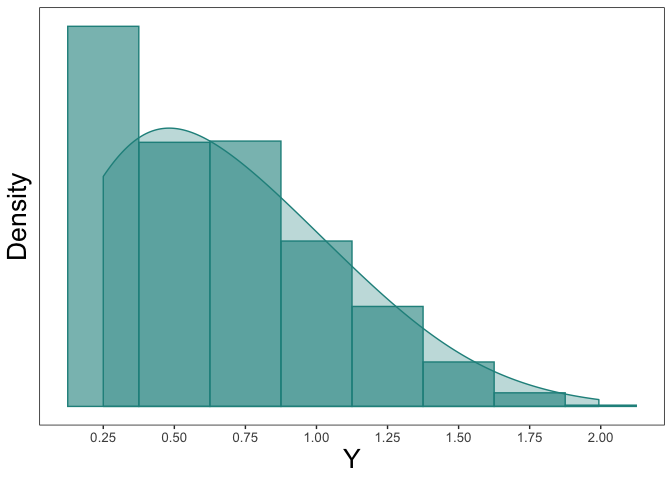
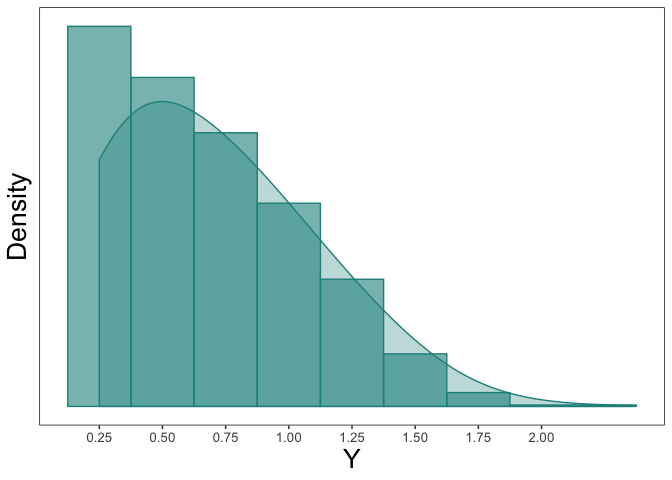
adding CRAN badges and re-adding instructions for installing the GitHub version as a development option

diff --git a/README.md b/README.md
@@ -2,6 +2,16 @@ Maximum Likelihood Estimation of a Truncated Normal Distribution with
 Censored Data
 ================
 
+<!-- badges: start -->
+
+[![CRAN
+version](http://www.r-pkg.org/badges/version/tcensReg)](http://www.r-pkg.org/pkg/tcensReg)
+[![CRAN RStudio mirror
+downloads](http://cranlogs.r-pkg.org/badges/grand-total/tcensReg)](http://www.r-pkg.org/pkg/tcensReg)
+[![cran
+checks](https://cranchecks.info/badges/worst/tcensReg)](https://cranchecks.info/pkgs/tcensReg)
+<!-- badges: end -->
+
 The goal of this package is to estimate parameters from a linear model
 when the data comes from a truncated normal distribution with censoring.
 Maximum likelihood values are returned. There are multiple method
@@ -17,10 +27,15 @@ arXiv:[1911.11221](https://arxiv.org/abs/1911.11221).
 
 # Installation
 
-You can install `tcensReg` from CRAN:
+You can install `tcensReg` from CRAN for the stable release or install
+the GitHub verion for the active development version:
 
 ``` r
+#stable CRAN version
 install.packages("tcensReg")
+#active devel. GitHub version
+install.packages("devtools")
+devtools::install_github("williazo/tcensReg")
 ```
 
 # Example 1: Single Population
@@ -47,7 +62,7 @@ y_star <- rtnorm(n=1000, mu=mu, sd=sigma, a=a)
 round(range(y_star), 3)
 ```
 
-    ## [1] 0.004 1.993
+    ## [1] 0.004 2.355
 
 Next, we can imagine a scenario where we have an imprecise measurement
 of `y_star` leading to censoring. In our case we assume that values
@@ -63,7 +78,7 @@ y <- ifelse(y_star <= nu, nu, y_star)
 sum(y == nu)/length(y) 
 ```
 
-    ## [1] 0.194
+    ## [1] 0.191
 
 ``` r
 #collecting the uncensored and censored data together
@@ -88,22 +103,22 @@ tcensReg(y ~ 1, data=dt, a=0, v=0.25)
 
     ## $theta
     ##               Estimate
-    ## (Intercept)  0.4778344
-    ## log_sigma   -0.6738206
+    ## (Intercept)  0.5135531
+    ## log_sigma   -0.6827764
     ## 
     ## $convergence
     ## [1] 0
     ## 
     ## $initial_ll
-    ## [1] -692.9344
+    ## [1] -703.9048
     ## 
     ## $final_ll
-    ## [1] -677.5428
+    ## [1] -690.939
     ## 
     ## $var_cov
     ##               (Intercept)     log_sigma
-    ## (Intercept)  0.0009767877 -0.0009602282
-    ## log_sigma   -0.0009602282  0.0016796832
+    ## (Intercept)  0.0008405050 -0.0008258552
+    ## log_sigma   -0.0008258552  0.0015649081
     ## 
     ## $method
     ## [1] "CG"
@@ -152,9 +167,9 @@ knitr::kable(results_df, format="markdown", digits=4)
 |            |     mu |  sigma | mu\_bias | sigma\_bias |
 | :--------- | -----: | -----: | -------: | ----------: |
 | Truth      | 0.5000 | 0.5000 |   0.0000 |      0.0000 |
-| tcensReg   | 0.4778 | 0.5098 |   0.0222 |      0.0098 |
-| Normal MLE | 0.6594 | 0.3702 |   0.1594 |      0.1298 |
-| Tobit      | 0.6113 | 0.4408 |   0.1113 |      0.0592 |
+| tcensReg   | 0.5136 | 0.5052 |   0.0136 |      0.0052 |
+| Normal MLE | 0.6782 | 0.3740 |   0.1782 |      0.1260 |
+| Tobit      | 0.6311 | 0.4445 |   0.1311 |      0.0555 |
 
 Other methods result in significant bias for both `mu` and `sigma`.
 
@@ -208,28 +223,28 @@ mod_result
 
     ## $theta
     ##       (Intercept) groupPopulation 2        log_sigma1        log_sigma2 
-    ##         0.4875891         0.6475935        -1.4094346         0.6907025 
+    ##        0.50256296       -0.03487324       -1.39156717        0.81610577 
     ## 
     ## $convergence
     ## [1] 2
     ## 
     ## $initial_ll
-    ## [1] -1941.744
+    ## [1] -2000.264
     ## 
     ## $final_ll
-    ## [1] -1864.28
+    ## [1] -1900.638
     ## 
     ## $var_cov
     ##                     (Intercept) groupPopulation 2    log_sigma1
-    ## (Intercept)        7.455164e-05     -7.455164e-05 -7.176795e-05
-    ## groupPopulation 2 -7.455164e-05      2.833121e-02  7.176795e-05
-    ## log_sigma1        -7.176795e-05      7.176795e-05  8.143326e-04
-    ## log_sigma2        -4.901979e-15     -6.821170e-03  4.718944e-15
+    ## (Intercept)        7.628463e-05     -7.628463e-05 -6.926603e-05
+    ## groupPopulation 2 -7.628463e-05      7.487459e-02  6.926603e-05
+    ## log_sigma1        -6.926603e-05      6.926603e-05  8.017440e-04
+    ## log_sigma2        -1.677884e-14     -1.428259e-02  1.523510e-14
     ##                      log_sigma2
-    ## (Intercept)       -4.901979e-15
-    ## groupPopulation 2 -6.821170e-03
-    ## log_sigma1         4.718944e-15
-    ## log_sigma2         2.283660e-03
+    ## (Intercept)       -1.677884e-14
+    ## groupPopulation 2 -1.428259e-02
+    ## log_sigma1         1.523510e-14
+    ## log_sigma2         3.271884e-03
     ## 
     ## $method
     ## [1] "maxLik"
@@ -250,10 +265,10 @@ results_df$sigma2_bias <- abs(results_df$sigma_2 - sigma_2)
 knitr::kable(results_df, format="markdown", digits=4)
 ```
 
-|          |  mu\_1 |  mu\_2 | sigma\_1 | sigma\_2 | mu1\_bias | mu2\_bias | sigma1\_bias | sigma2\_bias |
-| :------- | -----: | -----: | -------: | -------: | --------: | --------: | -----------: | -----------: |
-| Truth    | 0.5000 | 1.0000 |   0.2500 |   2.0000 |    0.0000 |    0.0000 |       0.0000 |       0.0000 |
-| tcensReg | 0.4876 | 0.6476 |   0.2443 |   1.9951 |    0.0124 |    0.3524 |       0.0057 |       0.0049 |
+|          |  mu\_1 |    mu\_2 | sigma\_1 | sigma\_2 | mu1\_bias | mu2\_bias | sigma1\_bias | sigma2\_bias |
+| :------- | -----: | -------: | -------: | -------: | --------: | --------: | -----------: | -----------: |
+| Truth    | 0.5000 |   1.0000 |   0.2500 |   2.0000 |    0.0000 |    0.0000 |       0.0000 |       0.0000 |
+| tcensReg | 0.5026 | \-0.0349 |   0.2487 |   2.2617 |    0.0026 |    1.0349 |       0.0013 |       0.2617 |
 
 # Performance Comparison: Censored-Only and Truncated-Only
 
@@ -276,8 +291,8 @@ knitr::kable(summary(cens), format="markdown", digits=4)
 
 | expr             |     min |      lq |    mean |  median |      uq |     max | neval | cld |
 | :--------------- | ------: | ------: | ------: | ------: | ------: | ------: | ----: | :-- |
-| tcensReg\_method |  4.8988 |  5.0706 |  6.2779 |  5.2245 |  6.1985 | 13.5982 |   100 | a   |
-| censReg\_method  | 13.7588 | 14.3828 | 20.1981 | 19.3609 | 22.1070 | 94.7555 |   100 | b   |
+| tcensReg\_method |  4.8716 |  5.1656 |  7.2273 |  5.6143 |  6.8531 | 22.4004 |   100 | a   |
+| censReg\_method  | 13.6368 | 14.6194 | 22.0925 | 17.7750 | 22.5968 | 94.8422 |   100 | b   |
 
 ``` r
 #point estimates are equivalent
@@ -297,10 +312,10 @@ trunc <- microbenchmark(
 knitr::kable(summary(trunc), format="markdown", digits=4)
 ```
 
-| expr             |     min |      lq |    mean |  median |      uq |     max | neval | cld |
-| :--------------- | ------: | ------: | ------: | ------: | ------: | ------: | ----: | :-- |
-| tcensReg\_method |  8.3232 |  8.6242 | 10.2803 |  9.0937 | 10.9995 | 21.4538 |   100 | a   |
-| truncreg\_method | 26.8182 | 28.7343 | 32.5956 | 32.6787 | 34.2838 | 42.0412 |   100 | b   |
+| expr             |     min |      lq |    mean |  median |      uq |      max | neval | cld |
+| :--------------- | ------: | ------: | ------: | ------: | ------: | -------: | ----: | :-- |
+| tcensReg\_method |  8.3197 |  9.2489 | 12.8959 | 10.1725 | 14.2182 |  50.7163 |   100 | a   |
+| truncreg\_method | 25.2598 | 28.2049 | 36.0450 | 30.8232 | 37.3013 | 168.7519 |   100 | b   |
 
 ``` r
 tcensReg_est <- as.numeric(tcensReg(y_star ~ 1, data=dt, a=a, method="Newton")$theta)
@@ -310,7 +325,7 @@ truncreg_est <- as.numeric(coef(truncreg(y_star ~ 1, point=a, data=dt)))
 all.equal(tcensReg_est, truncreg_est)
 ```
 
-    ## [1] "Mean relative difference: 6.765638e-08"
+    ## [1] "Mean relative difference: 1.418798e-07"
 
 In the comparisons above we are using an intercept only model, but in
 general we expect that interest lies in understanding how a set of
@@ -343,8 +358,8 @@ knitr::kable(summary(cens), format="markdown", digits=4)
 
 | expr             |      min |       lq |     mean |   median |       uq |      max | neval | cld |
 | :--------------- | -------: | -------: | -------: | -------: | -------: | -------: | ----: | :-- |
-| tcensReg\_method | 239.6229 | 252.3713 | 282.4082 | 266.8667 | 287.2247 | 463.9361 |   100 | a   |
-| censReg\_method  | 322.4404 | 352.1741 | 399.5644 | 370.3153 | 419.7930 | 735.0033 |   100 | b   |
+| tcensReg\_method | 239.4399 | 259.8322 | 300.1356 | 269.1833 | 323.7974 | 690.5391 |   100 | a   |
+| censReg\_method  | 294.4390 | 318.8463 | 375.1485 | 329.4052 | 432.0527 | 665.0162 |   100 | b   |
 
 ``` r
 #point estimates are equivalent
@@ -353,7 +368,7 @@ censReg_est <- as.numeric(coef(censReg(y ~ ., left=nu, data=dt)))
 all.equal(tcensReg_est, censReg_est)
 ```
 
-    ## [1] "Mean relative difference: 5.836655e-05"
+    ## [1] "Mean relative difference: 7.673209e-05"
 
 ``` r
 #testing the truncated-only regression with 100 covariates
@@ -364,8 +379,8 @@ knitr::kable(summary(trunc), format="markdown", digits=4)
 
 | expr             |      min |       lq |     mean |   median |       uq |      max | neval | cld |
 | :--------------- | -------: | -------: | -------: | -------: | -------: | -------: | ----: | :-- |
-| tcensReg\_method | 287.1785 | 297.9352 | 316.3781 | 305.2113 | 325.1183 | 650.2492 |   100 | a   |
-| truncreg\_method | 315.6116 | 324.9087 | 352.0834 | 334.6383 | 359.1795 | 659.4248 |   100 | b   |
+| tcensReg\_method | 292.8907 | 305.8579 | 333.4667 | 310.8038 | 328.3851 | 693.7038 |   100 | a   |
+| truncreg\_method | 339.9185 | 364.1311 | 396.5839 | 370.2025 | 390.6252 | 687.3976 |   100 | b   |
 
 ``` r
 tcensReg_est <- as.numeric(tcensReg(y_star ~ ., data=dt, a=a, method="BFGS")$theta)
@@ -375,4 +390,4 @@ truncreg_est <- as.numeric(coef(truncreg(y_star ~ ., point=a, data=dt)))
 all.equal(tcensReg_est, truncreg_est)
 ```
 
-    ## [1] "Mean relative difference: 8.163993e-05"
+    ## [1] "Mean relative difference: 4.119702e-05"
